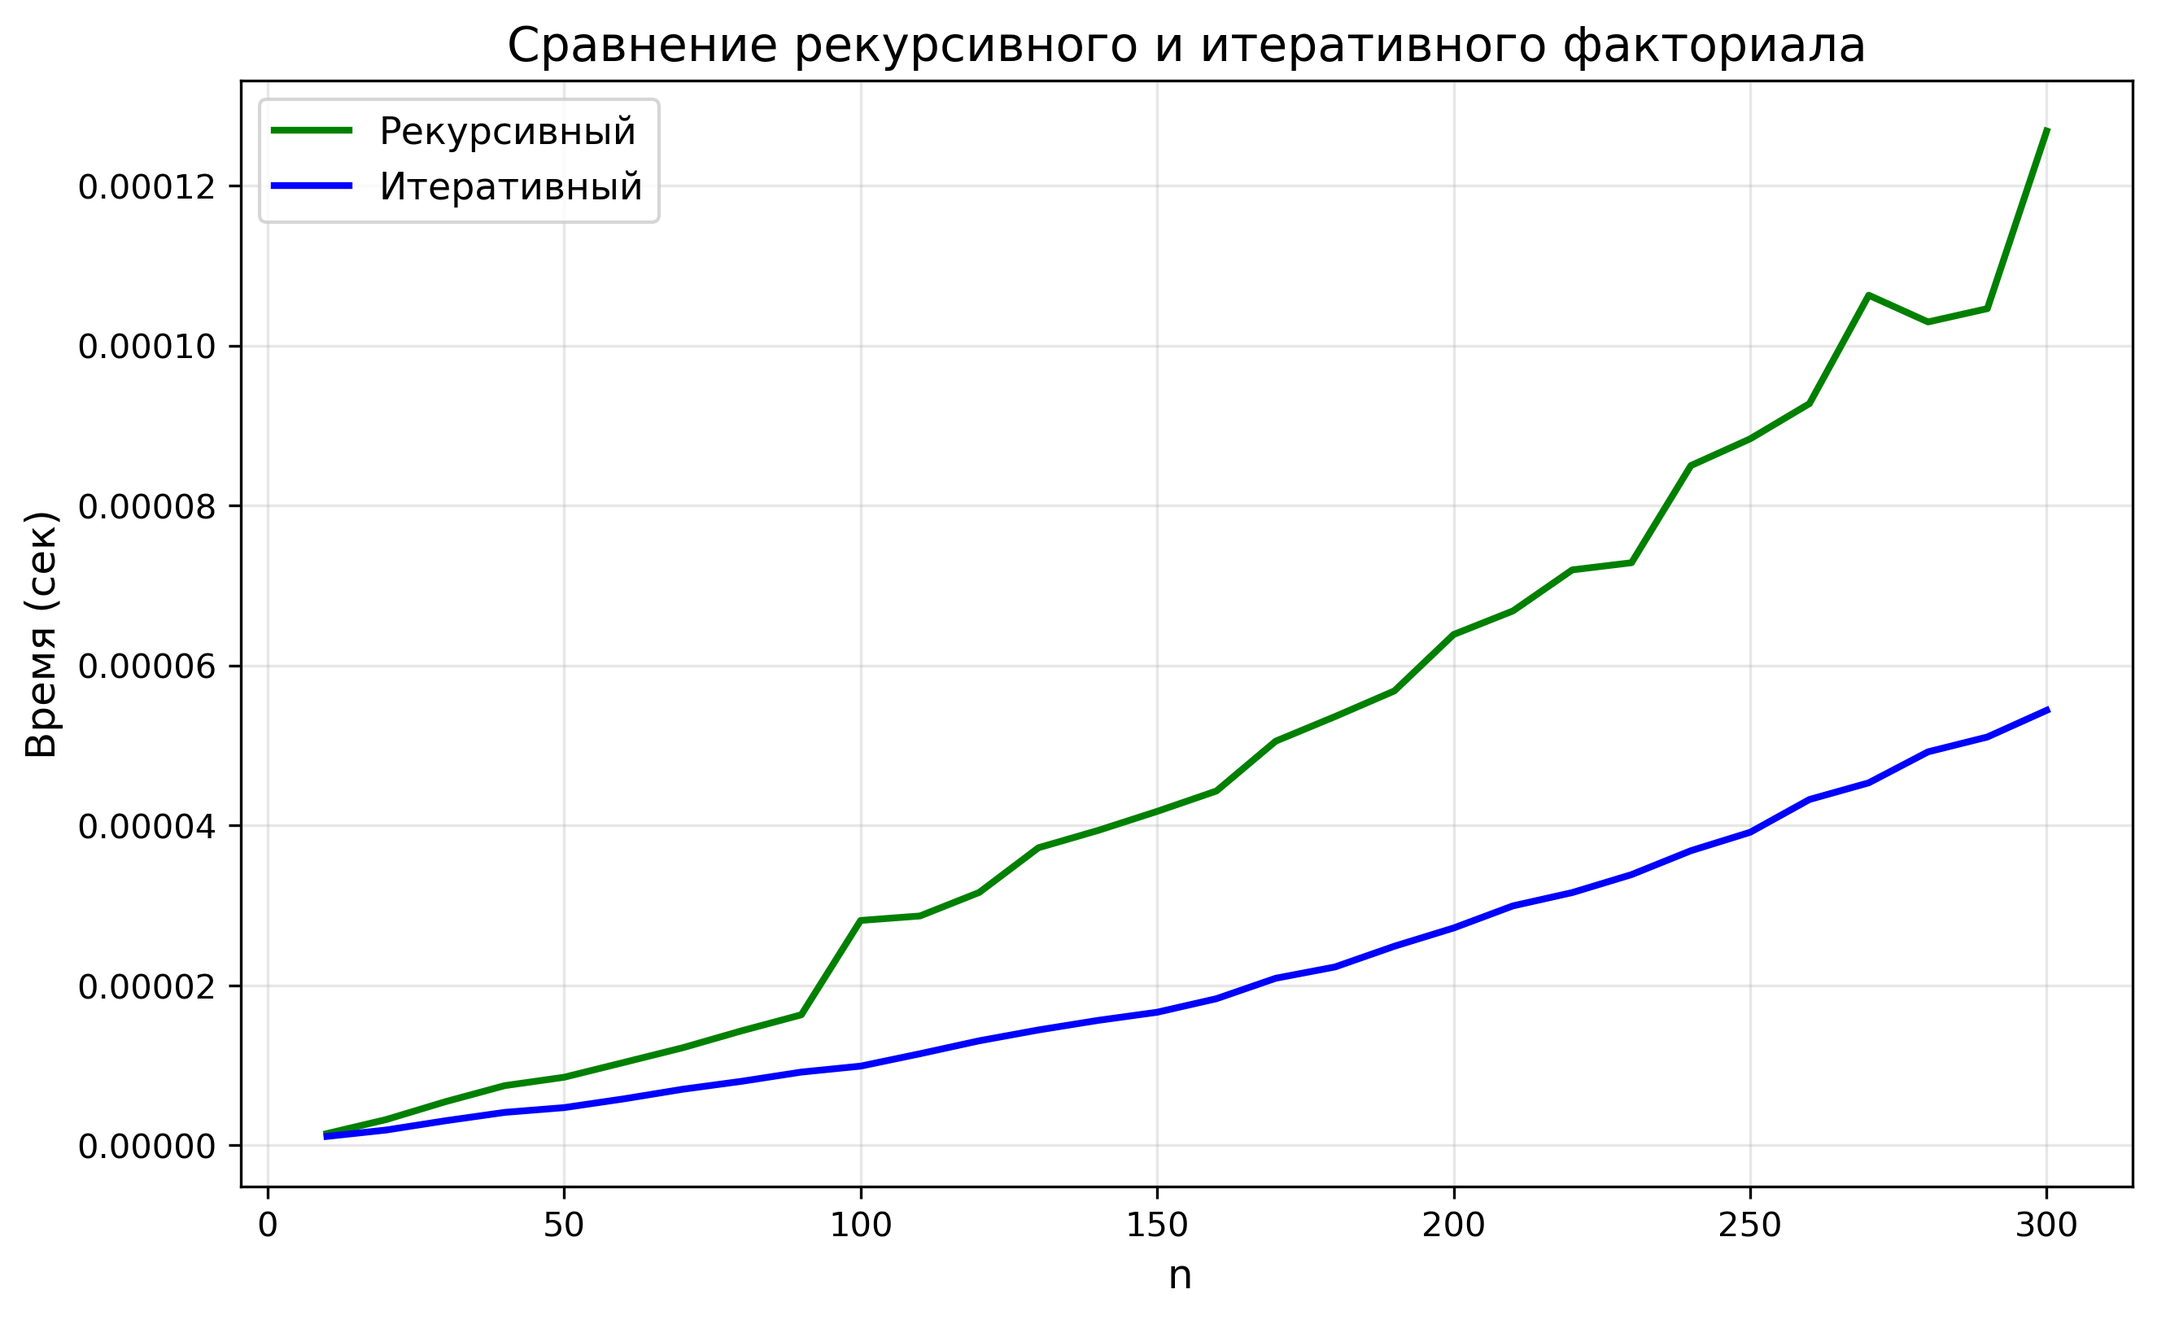
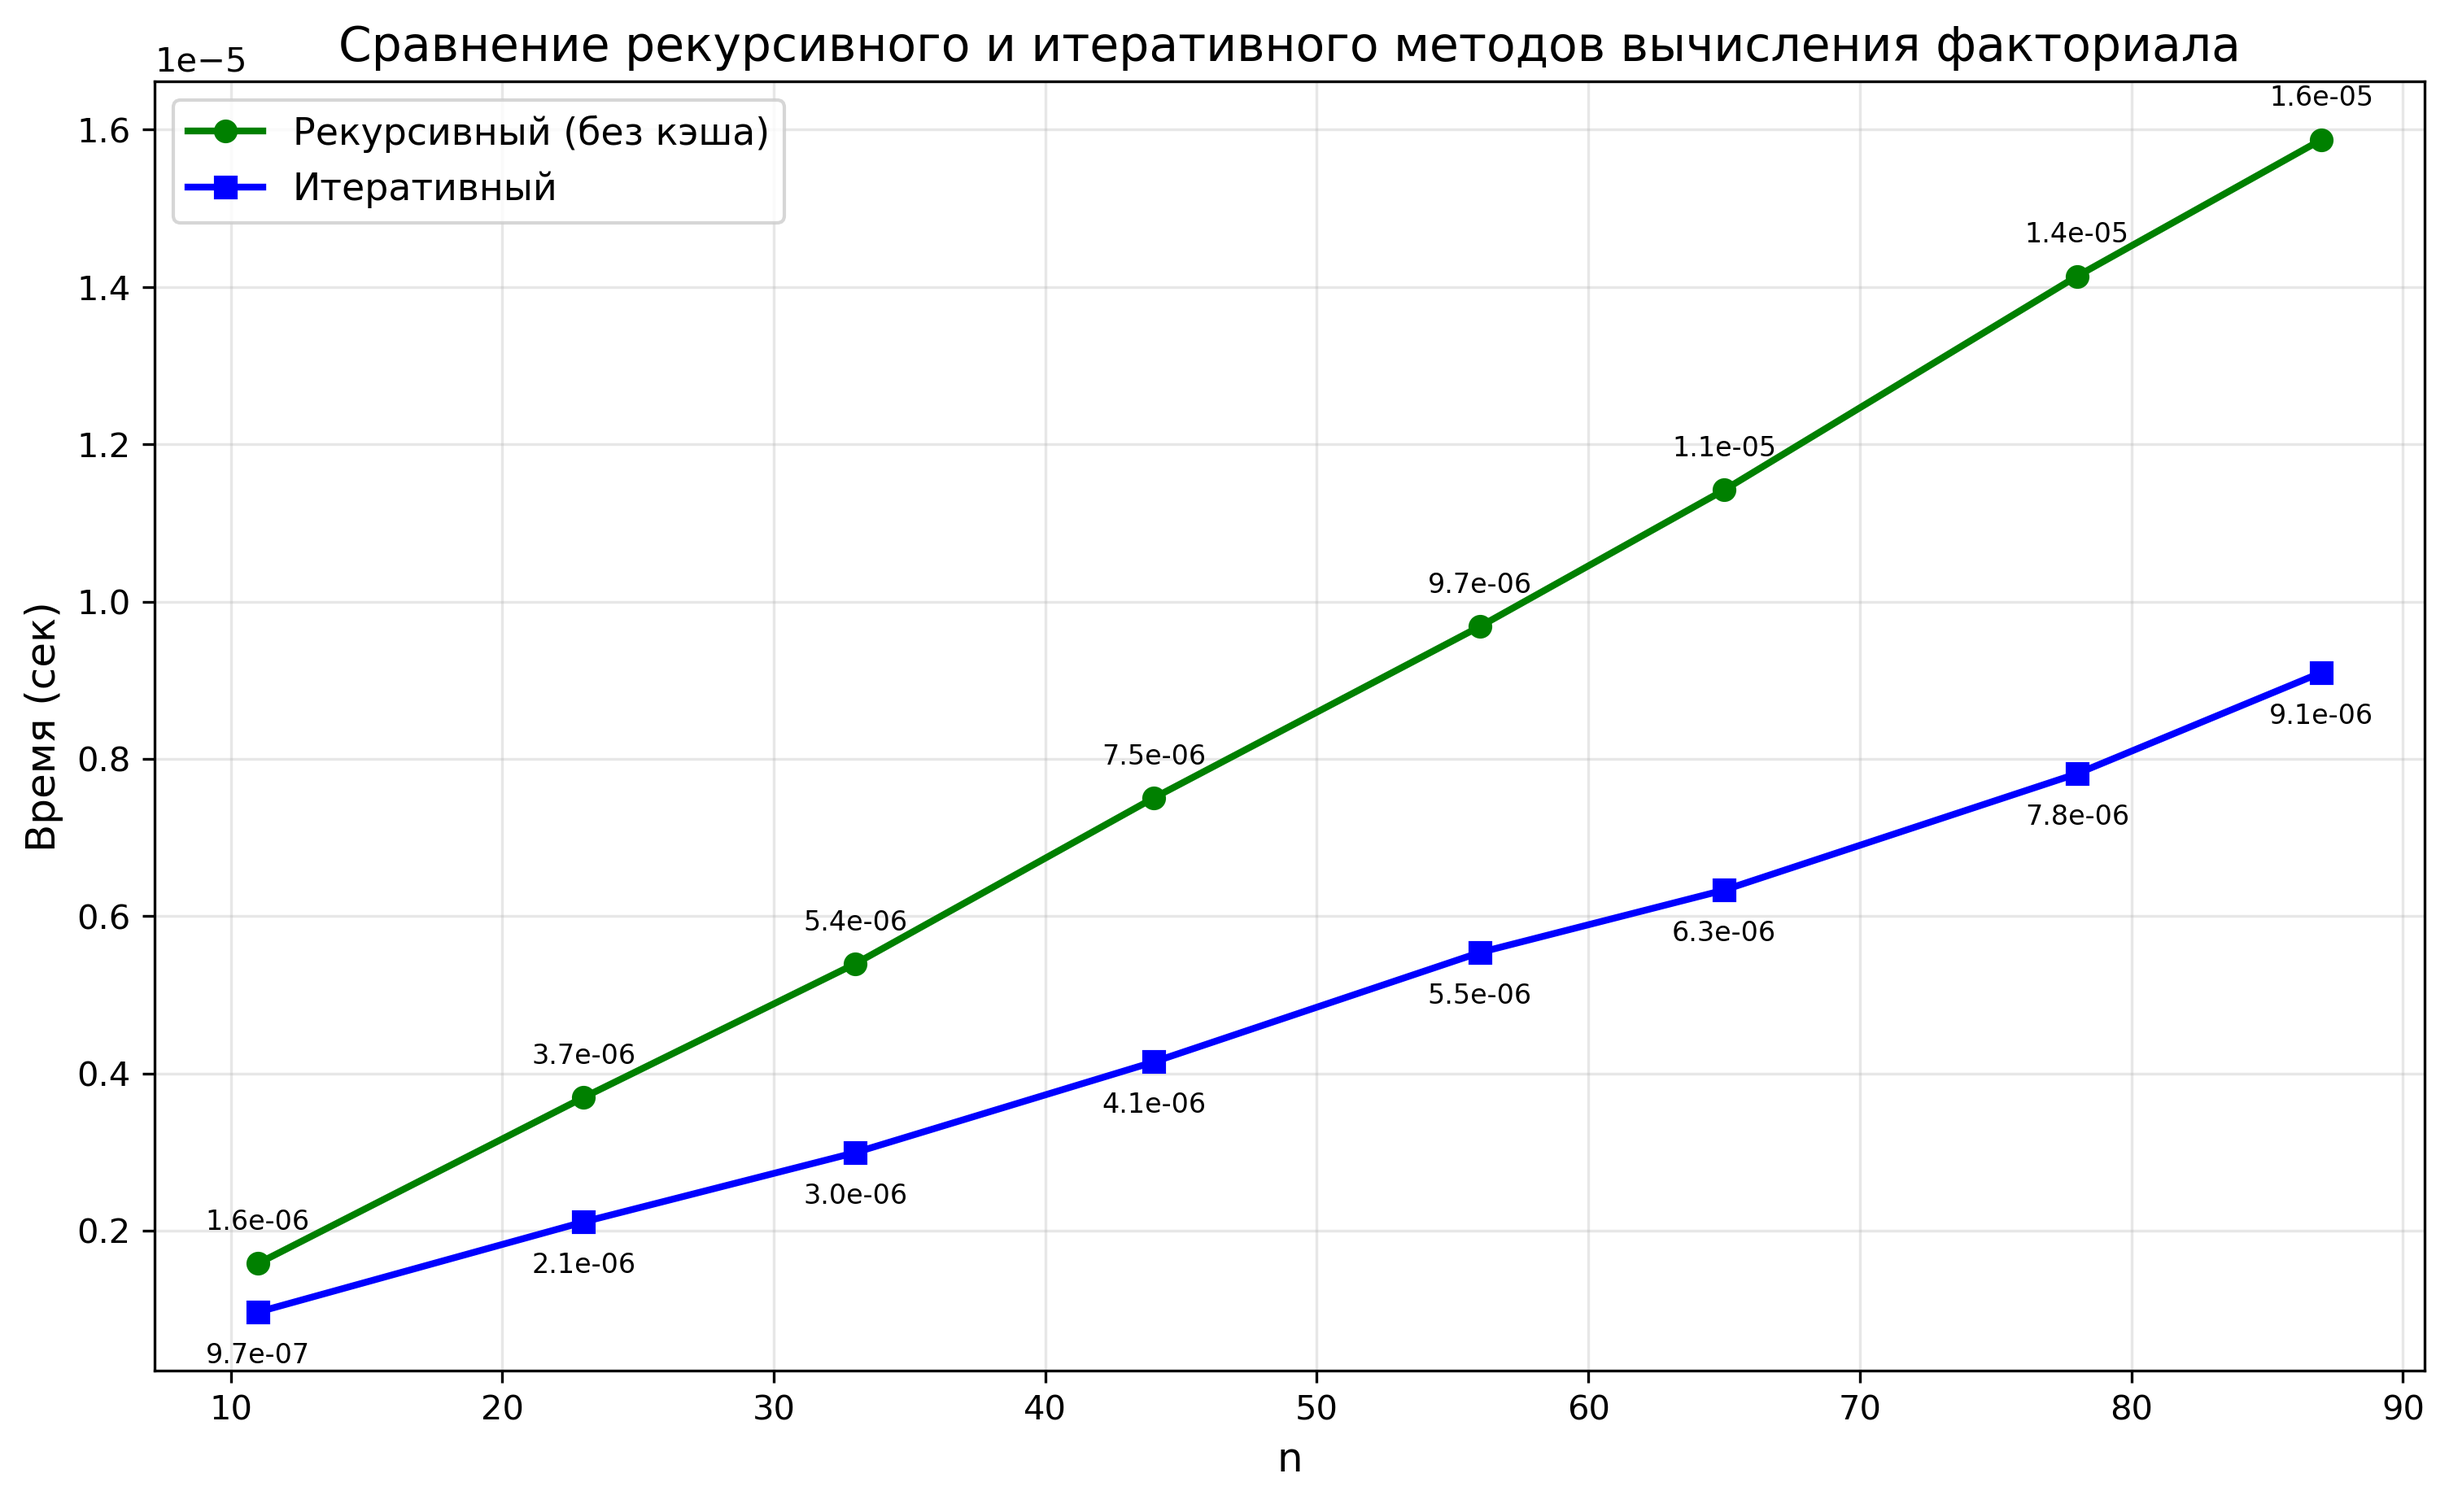
4

diff --git a/Lab_4/Lab4.py b/Lab_4/Lab4.py
@@ -1,0 +1,207 @@
+import timeit
+import matplotlib.pyplot as plt
+from functools import lru_cache
+from typing import List, Callable, Tuple
+
+
+def fact_recursive(n: int) -> int:
+    """
+    Вычисление факториала числа рекурсивным методом.
+    
+    Args:
+        n (int): Число для вычисления факториала (n >= 0)
+        
+    Returns:
+        int: Значение n!
+    """
+    if n == 0:
+        return 1
+    return n * fact_recursive(n - 1)
+
+
+@lru_cache(maxsize=None)
+def fact_recursive_cached(n: int) -> int:
+    """
+    Вычисление факториала числа рекурсивным методом с мемоизацией.
+    
+    Args:
+        n (int): Число для вычисления факториала (n >= 0)
+        
+    Returns:
+        int: Значение n!
+    """
+    if n == 0:
+        return 1
+    return n * fact_recursive_cached(n - 1)
+
+
+def fact_iterative(n: int) -> int:
+    """
+    Вычисление факториала числа итеративным методом (через цикл).
+    
+    Args:
+        n (int): Число для вычисления факториала (n >= 0)
+        
+    Returns:
+        int: Значение n!
+    """
+    result = 1
+    for i in range(2, n + 1):
+        result *= i
+    return result
+
+
+def benchmark(func: Callable[[int], int], n: int, number: int = 1000, repeat: int = 5) -> float:
+    """
+    Замер времени выполнения функции для заданного n.
+    
+    Args:
+        func: Функция для тестирования
+        n: Аргумент функции
+        number: Количество вызовов в одном прогоне
+        repeat: Количество повторений для усреднения
+        
+    Returns:
+        float: Минимальное время выполнения в секундах на один вызов
+    """
+    setup_str = f"from __main__ import {func.__name__}"
+    stmt = f"{func.__name__}({n})"
+    
+    times = timeit.repeat(stmt=stmt, setup=setup_str, repeat=repeat, number=number)
+    
+    return min(times) / number
+
+
+def get_numbers_from_input() -> List[int]:
+    """
+    Получение списка чисел для тестирования с клавиатуры.
+    
+    Returns:
+        List[int]: Список чисел для вычисления факториала
+    """
+    while True:
+        try:
+            input_str = input("Введите числа для вычисления факториала через пробел: ").strip()
+            if not input_str:
+                print("Ошибка: введите хотя бы одно число")
+                continue
+                
+            numbers = []
+            for num_str in input_str.split():
+                try:
+                    num = int(num_str)
+                    if num < 0:
+                        print(f"Внимание: число {num} отрицательное, будет взято по модулю")
+                        num = abs(num)
+                    numbers.append(num)
+                except ValueError:
+                    print(f"Ошибка: '{num_str}' не является целым числом, пропускаем")
+            
+            if not numbers:
+                print("Ошибка: не удалось распознать ни одного числа, попробуйте снова")
+                continue
+                
+            numbers = sorted(set(numbers))
+            return numbers
+            
+        except KeyboardInterrupt:
+            print("\nВвод прерван. Используются значения по умолчанию.")
+            return list(range(10, 101, 10))
+        except Exception as e:
+            print(f"Произошла ошибка: {e}. Попробуйте снова.")
+
+
+def run_all_comparisons(test_data: List[int]) -> Tuple[List[int], List[float], List[float], List[float]]:
+    """
+    Запуск сравнения всех трех методов.
+    
+    Args:
+        test_data: Список чисел для тестирования
+        
+    Returns:
+        Tuple с test_data и результатами для всех методов
+    """
+    results_recursive: List[float] = []
+    results_recursive_cached: List[float] = []
+    results_iterative: List[float] = []
+    
+
+    
+    for i, n in enumerate(test_data):
+        if i > 0:
+            fact_recursive_cached.cache_clear()
+        
+        time_recursive = benchmark(fact_recursive, n, number=1000, repeat=5)
+        results_recursive.append(time_recursive)
+        
+        time_cached = benchmark(fact_recursive_cached, n, number=1000, repeat=5)
+        results_recursive_cached.append(time_cached)
+        
+        time_iterative = benchmark(fact_iterative, n, number=1000, repeat=5)
+        results_iterative.append(time_iterative)
+        
+        print(f"n={n:4d}: "
+              f"Рекурсивный={time_recursive:.2e} с, "
+              f"Рекурсивный(кэш)={time_cached:.2e} с, "
+              f"Итеративный={time_iterative:.2e} с")
+    
+    return test_data, results_recursive, results_recursive_cached, results_iterative
+
+
+def print_statistics(test_data: List[int], 
+                     results_recursive: List[float],
+                     results_recursive_cached: List[float],
+                     results_iterative: List[float]) -> None:
+    """
+    Вывод статистики сравнения всех методов.
+    """
+    print("\nРезультаты тестирования:")
+    
+    for idx, n in enumerate(test_data):
+        print(f"\nn = {n}:")
+        print(f"  Рекурсивный (без кэша): {results_recursive[idx]:.2e} с")
+        print(f"  Рекурсивный (с кэшем):  {results_recursive_cached[idx]:.2e} с")
+        print(f"  Итеративный:           {results_iterative[idx]:.2e} с")
+
+
+def save_recursive_vs_iterative_plot(test_data: List[int],
+                                     results_recursive: List[float],
+                                     results_iterative: List[float]) -> None:
+    "Визуализация"
+    plt.figure(figsize=(12, 7))
+    
+    plt.plot(test_data, results_recursive, 'g-', label='Рекурсивный (без кэша)', linewidth=2, marker='o')
+    plt.plot(test_data, results_iterative, 'b-', label='Итеративный', linewidth=2, marker='s')
+    
+    plt.xlabel('n', fontsize=12)
+    plt.ylabel('Время (сек)', fontsize=12)
+    plt.title('Сравнение рекурсивного и итеративного методов вычисления факториала', fontsize=14)
+    plt.legend(fontsize=11)
+    plt.grid(True, alpha=0.3)
+    
+    for i, n in enumerate(test_data):
+        if len(test_data) <= 10:
+            plt.annotate(f'{results_recursive[i]:.1e}', (n, results_recursive[i]), textcoords="offset points", xytext=(0,10), ha='center',fontsize=8)
+            plt.annotate(f'{results_iterative[i]:.1e}', (n, results_iterative[i]), textcoords="offset points", xytext=(0,-15), ha='center',fontsize=8)
+    
+    plt.savefig('recursive_vs_iterative_comparison.png', dpi=300, bbox_inches='tight')
+    plt.close()
+    
+
+def main() -> None:
+    """
+    Основная функция для запуска сравнения и сохранения графика.
+    """
+    print("Сравнение методов вычисления факториала")
+    
+    test_data = get_numbers_from_input()
+    
+    test_data, results_recursive, results_recursive_cached, results_iterative = run_all_comparisons(test_data)
+    
+    print_statistics(test_data, results_recursive, results_recursive_cached, results_iterative)
+    
+    save_recursive_vs_iterative_plot(test_data, results_recursive, results_iterative)
+    
+
+if __name__ == "__main__":
+    main()
